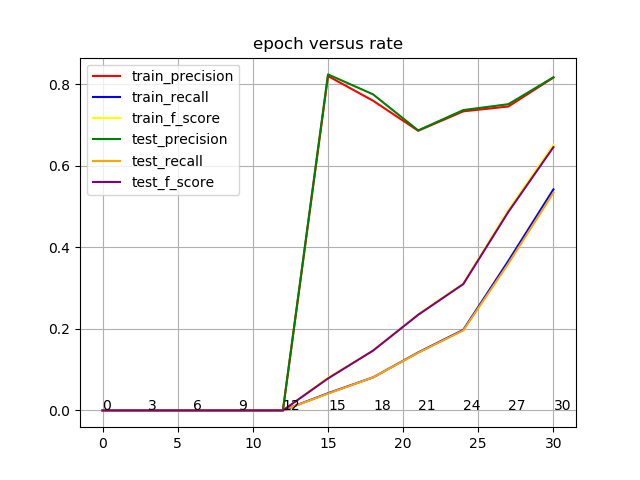
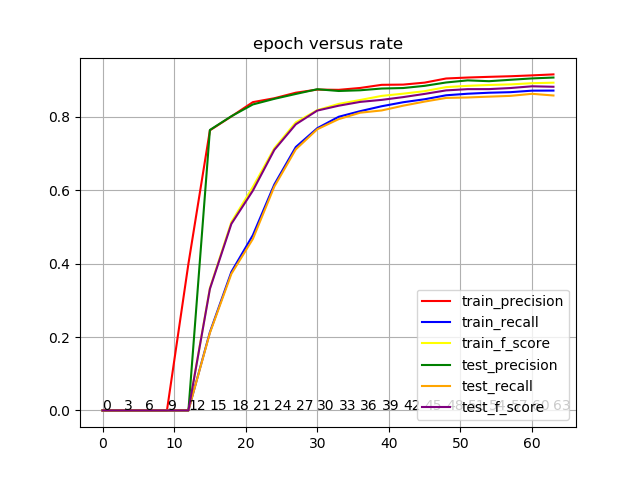
加入各种处理，增加几个记录

diff --git a/My_First_Deep_Learning_Project_NER/data/picture.py b/My_First_Deep_Learning_Project_NER/data/picture.py
@@ -121,6 +121,43 @@ def dimension_plot(path):
         plt.show()
 
 
+def dimension_plot(path):
+    with codecs.open(path, 'r', 'utf-8') as log:
+        dimension = []
+        train_precision = []
+        train_recall = []
+        train_f_score = []
+        test_precision = []
+        test_recall = []
+        test_f_score = []
+        while True:
+            line = log.readline()
+            if not line:
+                break
+            elif u'config[\'embedding_dim\']' in line:
+                dimension.append(int(line.split(u' ')[-1]))
+            elif u'train\n' == line:
+                train_precision.append(float(log.readline().split(u' ')[-1][:-2]))
+                train_recall.append(float(log.readline().split(u' ')[-1][:-2]))
+                train_f_score.append(float(log.readline().split(u' ')[-1][:-2]))
+                line = log.readline()
+                if u'test\n' == line:
+                    test_precision.append(float(log.readline().split(u' ')[-1][:-2]))
+                    test_recall.append(float(log.readline().split(u' ')[-1][:-2]))
+                    test_f_score.append(float(log.readline().split(u' ')[-1][:-2]))
+        plt.title('dimension versus rate')
+        plt.plot(dimension, train_precision, 'red', label='train_precision')
+        plt.plot(dimension, train_recall, 'blue', label='train_recall')
+        plt.plot(dimension, train_f_score, 'yellow', label='train_f_score')
+        plt.plot(dimension, test_precision, 'green', label='test_precision')
+        plt.plot(dimension, test_recall, 'orange', label='test_recall')
+        plt.plot(dimension, test_f_score, 'purple', label='test_f_score')
+        for a, b in zip(dimension, train_precision):
+            plt.text(a,0,a)
+        plt.legend()
+        plt.grid()
+        plt.show()
+
 if __name__ == '__main__':
     print(sys.argv)
     if len(sys.argv) == 3 and sys.argv[1] == 'learning_plot':

diff --git a/My_First_Deep_Learning_Project_NER/tensorflow/bilstm_crf.py b/My_First_Deep_Learning_Project_NER/tensorflow/bilstm_crf.py
@@ -6,7 +6,7 @@ import tensorflow as tf
 class Model:
     def __init__(self, config, embedding_pretrained):
         self.config = config
-        self.embedding_pretrained = embedding_pretrained
+        self.embeddings_pretrained = embedding_pretrained
         self.input_data = tf.placeholder(tf.int32, shape=[self.config['batch_size'], self.config['sentence_len']],
                                          name='input_data')
         self.labels = tf.placeholder(tf.int32, shape=[self.config['batch_size'], self.config['sentence_len']],
@@ -21,7 +21,7 @@ class Model:
             word_embeddings = tf.get_variable('word_embeddings',
                                               [self.config['vocabulary_size'], self.config['embedding_dim']])
             if self.config['pretrained']:
-                embedding_init = word_embeddings.assign(self.config['embeddings_pretrained'])
+                embedding_init = word_embeddings.assign(self.embeddings_pretrained)
                 # 这块未来可能要改！
 
             input_embedded = tf.nn.embedding_lookup(word_embeddings, self.input_data)

diff --git a/My_First_Deep_Learning_Project_NER/tensorflow/train.py b/My_First_Deep_Learning_Project_NER/tensorflow/train.py
@@ -32,8 +32,8 @@ print('x_train_type:' + str(type(x_train)) + '\n')
 print('x_train_shape:' + str(x_train.shape) + '\n')
 print('x_train_example:' + str(x_train[0:5, 0:5]) + '\n')
 
-epochs = 64
-batch_size = 512
+epochs = 32
+batch_size = 32
 
 config = {}
 config['lr'] = 2.5e-3
@@ -50,7 +50,7 @@ if len(sys.argv) == 2 and sys.argv[1] == "pretrained":
     print("use pretrained emedding")
     config['pretrained'] = True
     word2vec = {}
-    with codecs.open('vec.txt', 'r','utf-8') as pre_vec:
+    with codecs.open('../data/vec.txt', 'r','utf-8') as pre_vec:
         for line in pre_vec.readlines():
             word2vec[line.split()[0]] = map(eval,line.split()[1:])
             # eval :str算数表达式转换成float,map批量操作
